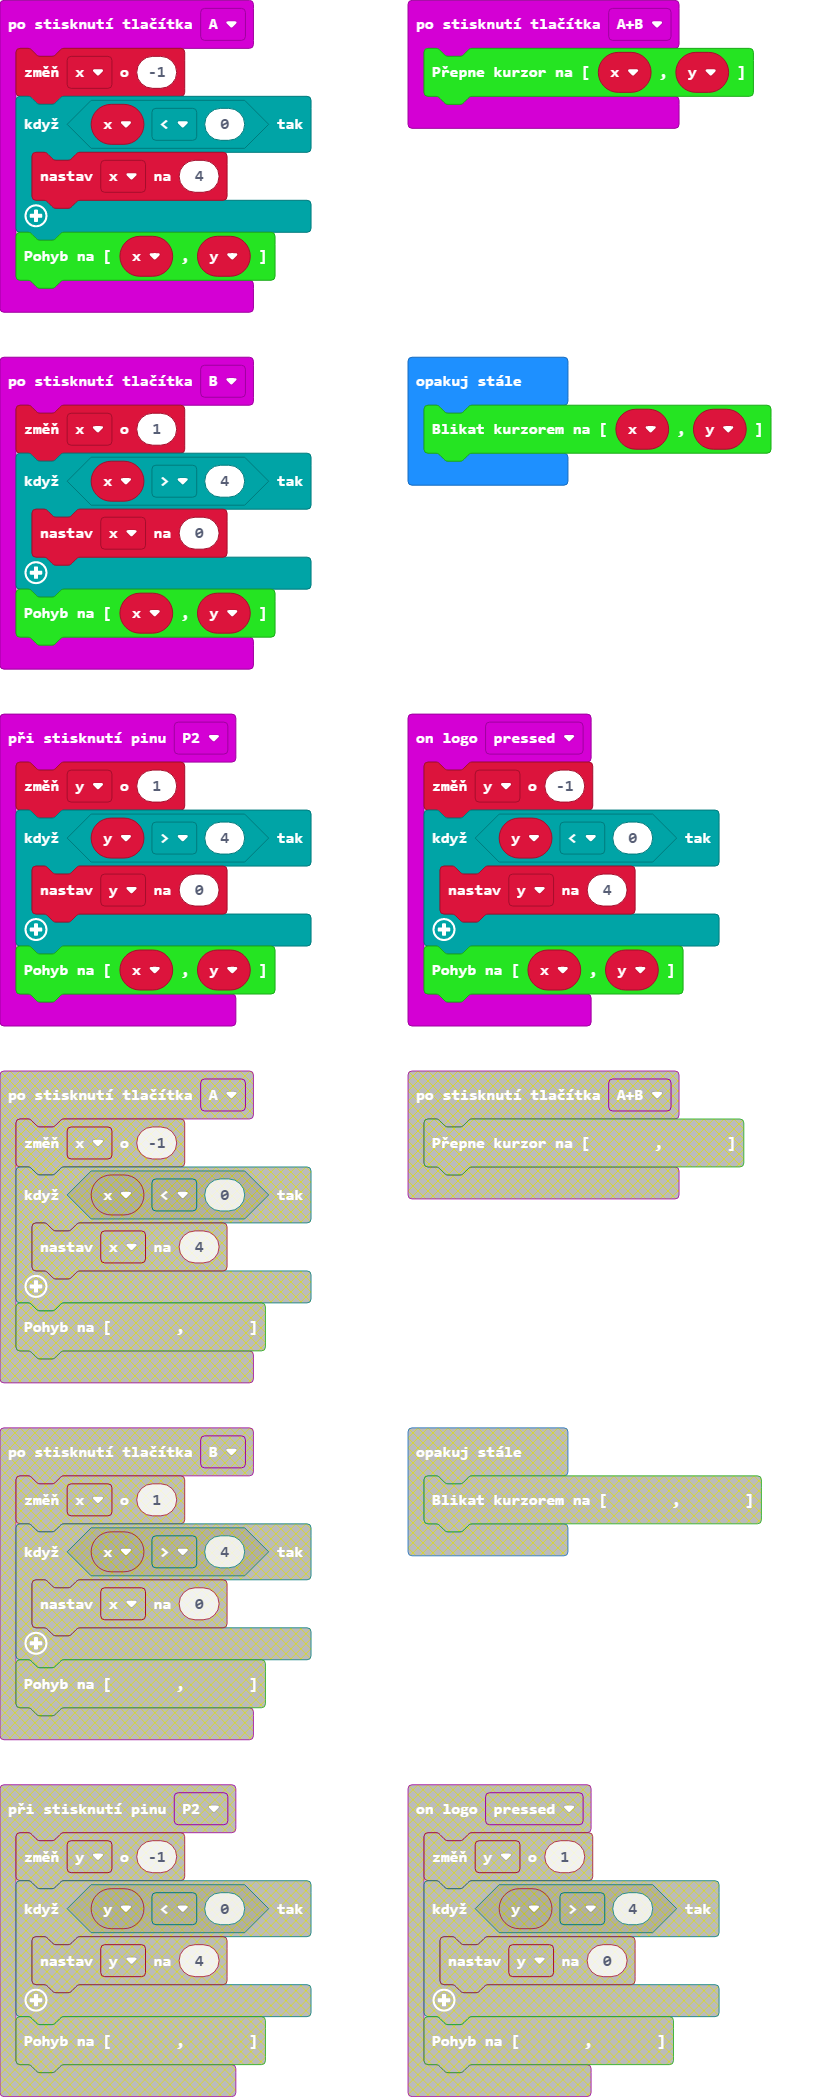
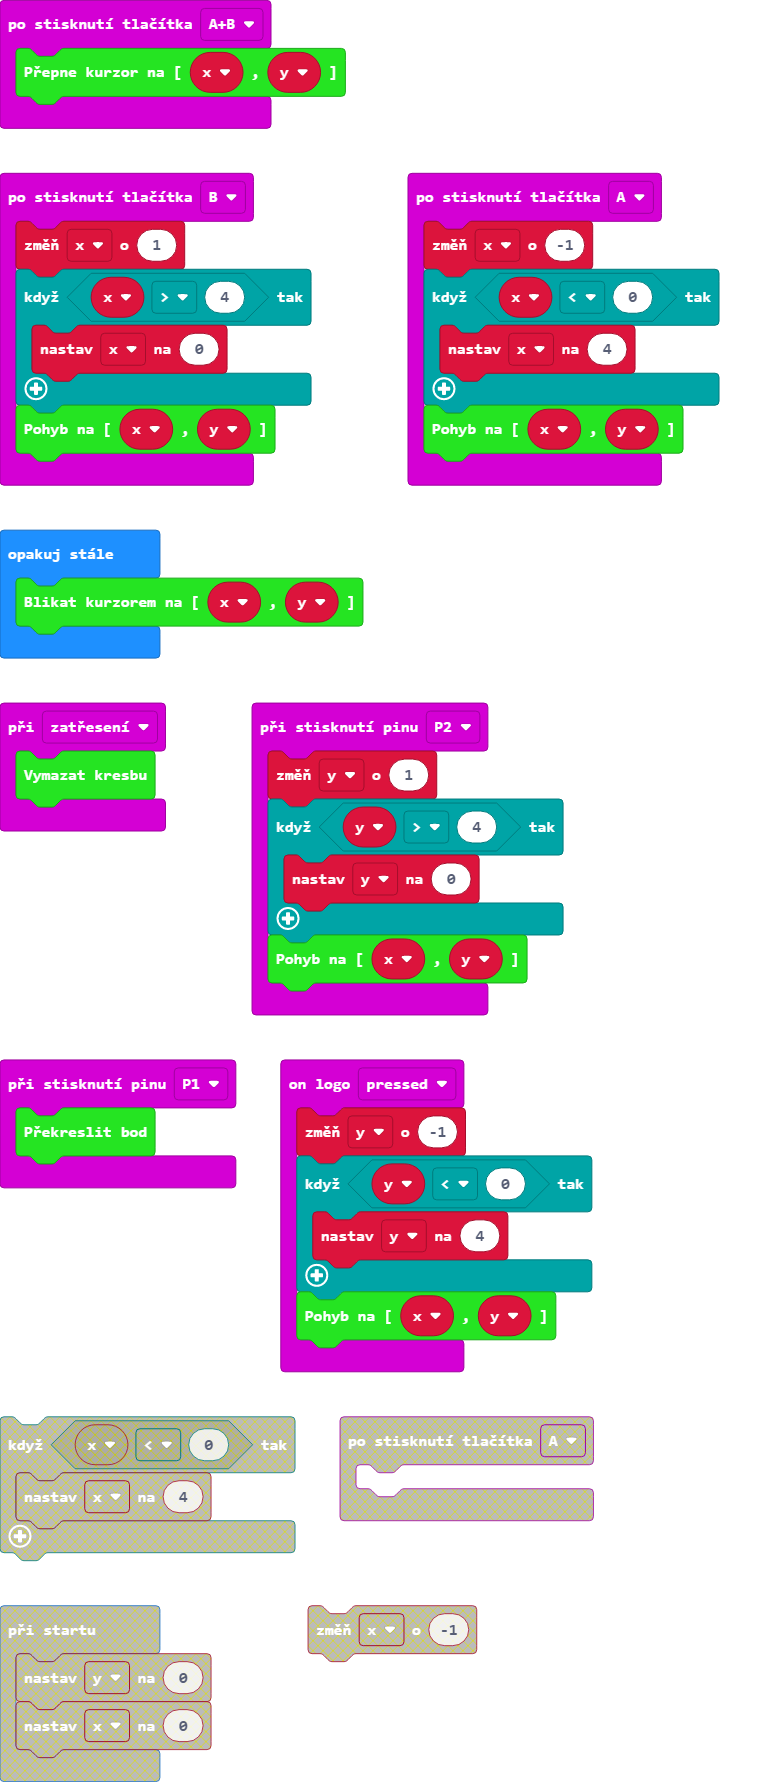
Aktualizovat pxt.json, main.blocks, main.ts, drawing.ts

diff --git a/drawing.ts b/drawing.ts
@@ -1,21 +1,21 @@
 //% weight=100 color=#25E422 icon="\uf1fc" block="Malování"
-namespace Malovani {
-    let predchoziStav = false
-    let jeVidetKurzor = false
-    jeVidetKurzor = true
-    let privatniX = 0 
-    let privatniY = 0
+namespace drawing {
+    let previousState = false
+    let isCursorVisible = false
+    isCursorVisible = true
+    let privateX = 0 
+    let privateY = 0
 
 
 
     /**
-        * Překreslí aktuální bod
-        */
+    * Překreslí aktuální bod
+    */
     //% block="Překreslit bod"
 
-    export function prekreslit(): void {
-        if (jeVidetKurzor) {
-            predchoziStav = !(predchoziStav)
+    export function redraw(): void {
+        if (isCursorVisible) {
+            previousState = !(previousState)
         }
     }
 
@@ -24,7 +24,7 @@ namespace Malovani {
     */
     //% block="Vymazat kresbu"
 
-    export function vymazat(): void {
+    export function clear(): void {
         basic.showLeds(`
         . . . . .
         . . . . .
@@ -32,37 +32,37 @@ namespace Malovani {
         . . . . .
         . . . . .
         `)
-        predchoziStav = false
+        previousState = false
     }
 
     /**
     * Přepne kurzor na zvolené souřadnici
-    * @noveX Zvolená souřadnice
-    * @noveY Zvolená souřadnice
+    * @newX Zvolená souřadnice
+    * @newY Zvolená souřadnice
     */
-    //% block="Přepne kurzor na [%noveX, %noveY]"
+    //% block="Přepne kurzor na [%newX, %newY]"
 
-    export function prepnoutKurzor(noveX: number, noveY: number): void {
-        jeVidetKurzor = !(jeVidetKurzor)
-        if (predchoziStav) {
-            led.plot(noveX, noveY)
+    export function toogleCursor(newX: number, newY: number): void {
+        isCursorVisible = !(isCursorVisible)
+        if (previousState) {
+            led.plot(newX, newY)
         } else {
-            led.unplot(noveX, noveY)
+            led.unplot(newX, newY)
         }
     }
 
     /**
     * Blikne kurzorem na zvolené souřadnici
-    * @noveX Zvolená souřadnice
-    * @noveY Zvolená souřadnice
+    * @newX Zvolená souřadnice
+    * @newY Zvolená souřadnice
     */
-    //% block="Blikat kurzorem na [%noveX, %noveY]"
+    //% block="Blikat kurzorem na [%newX, %newY]"
 
-    export function blikaniKurzoru(noveX: number, noveY: number): void {
-        privatniX = noveX;
-        privatniY = noveY;
-        if (jeVidetKurzor) {
-            led.toggle(noveX, noveY)
+    export function blinkCursor(newX: number, newY: number): void {
+        privateX = newX;
+        privateY = newY;
+        if (isCursorVisible) {
+            led.toggle(newX, newY)
             basic.pause(100)
 
         }
@@ -70,19 +70,19 @@ namespace Malovani {
 
     /**
     * Pohne kurzorem na zvolené souřadnice
-    * @noveX Zvolená souřadnice
-    * @noveY Zvolená souřadnice
+    * @newX Zvolená souřadnice
+    * @newY Zvolená souřadnice
     */
-    //% block="Pohyb na [%noveX, %noveY]"
-    export function pohyb(noveX: number, noveY: number): void {
-        if (predchoziStav) {
-            led.plot(privatniX, privatniY)
+    //% block="Pohyb na [%newX, %newY]"
+    export function moveAt(newX: number, newY: number): void {
+        if (previousState) {
+            led.plot(privateX, privateY)
             } else {
-            led.unplot(privatniX, privatniY)
+            led.unplot(privateX, privateY)
             }
-        privatniX = noveX
-        privatniY = noveY
-        predchoziStav = led.point(privatniX, privatniY)
+        privateX = newX
+        privateY = newY
+        previousState = led.point(privateX, privateY)
     }
 
 

diff --git a/main.ts b/main.ts
@@ -1,44 +1,42 @@
+let x = 0
+let y = 0
 input.onButtonPressed(Button.A, function () {
     x += -1
     if (x < 0) {
         x = 4
     }
-    Malovani.pohyb(x, y)
+    drawing.moveAt(x, y)
 })
 input.onPinPressed(TouchPin.P2, function () {
     y += 1
     if (y > 4) {
         y = 0
     }
-    Malovani.pohyb(x, y)
+    drawing.moveAt(x, y)
 })
 input.onButtonPressed(Button.AB, function () {
-    Malovani.prepnoutKurzor(x, y)
+    drawing.toogleCursor(x, y)
 })
 input.onButtonPressed(Button.B, function () {
     x += 1
     if (x > 4) {
         x = 0
     }
-    Malovani.pohyb(x, y)
+    drawing.moveAt(x, y)
 })
 input.onPinPressed(TouchPin.P1, function () {
-    Malovani.prekreslit()
+    drawing.redraw()
 })
 input.onGesture(Gesture.Shake, function () {
-    Malovani.vymazat()
+    drawing.clear()
 })
 input.onLogoEvent(TouchButtonEvent.Pressed, function () {
     y += -1
     if (y < 0) {
         y = 4
     }
-    Malovani.pohyb(x, y)
+    drawing.moveAt(x, y)
 })
-let x = 0
-let y = 0
-y = 0
-x = 0
 basic.forever(function () {
-    Malovani.blikaniKurzoru(x, y)
+    drawing.blinkCursor(x, y)
 })
